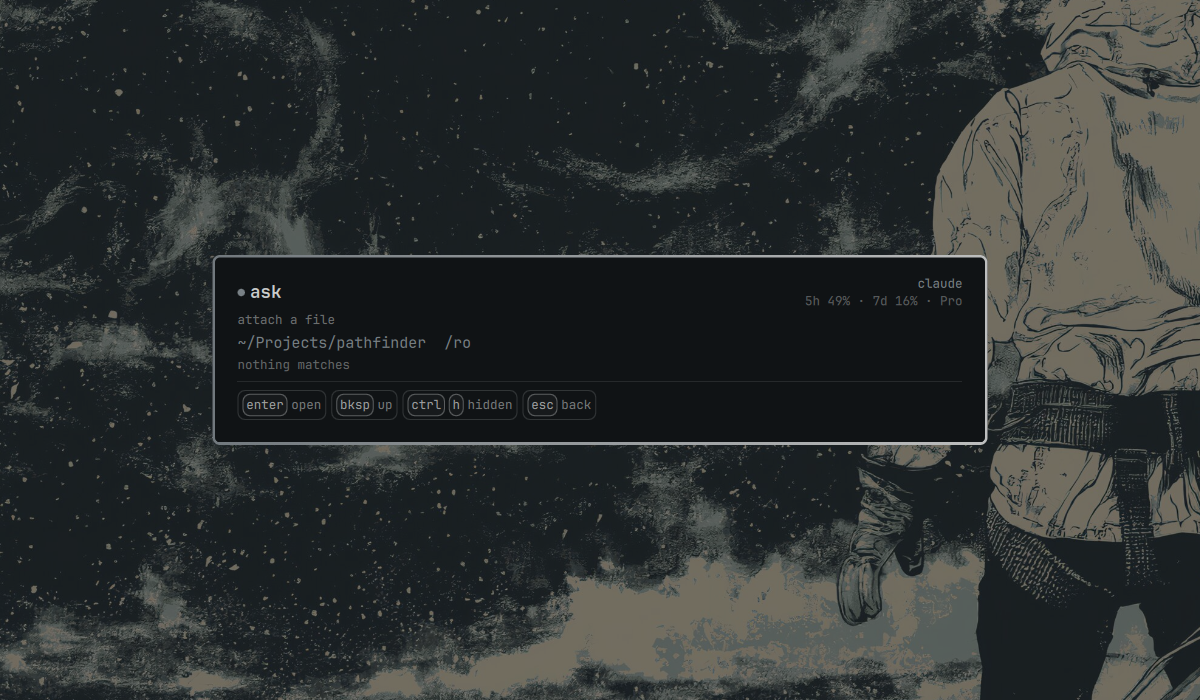
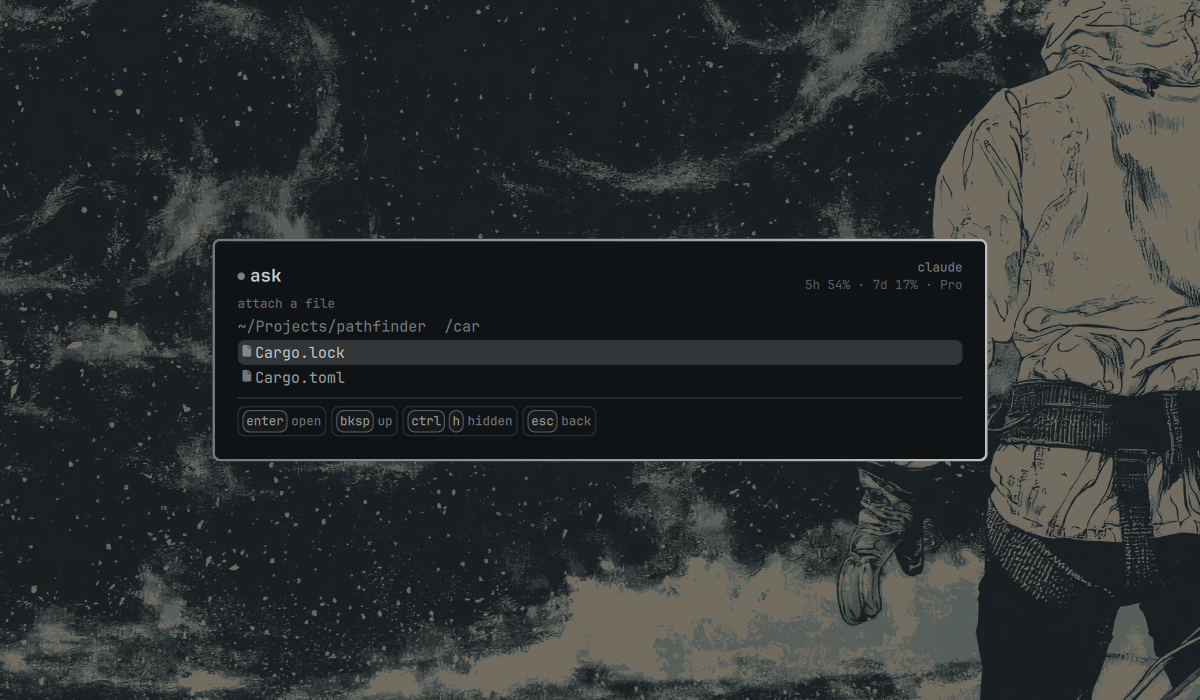
Capture the docs, and the scripts that made them
docs/ had a table of images marked "soon". It now holds them: the composer with
its context, a question answered in place, attachments becoming chips, the
agent switch walking through what is installed here, the file picker, the
history, the settings, and the card under three themes.

The scripts that produced them are in docs/capture/ rather than lost in a shell
history. They drive the real plugin on a real session -- summon it over the
shell's IPC with a context payload, type into it with wtype, photograph it with
grim -- and put back the workspace, theme, idle setting, agent list and history
they borrowed. A contributor who changes the UI can regenerate the affected
image with one command instead of trusting a screenshot they cannot reproduce.

Three things worth knowing, all stated in docs/README.md:

- The recordings drop frames identical to the one before them, which is mostly
  the wait before the first token. Nothing that moved is removed and nothing is
  reordered or sped up, but streaming.gif is not a latency benchmark.
- The context in the shots is handed to the overlay as the same JSON payload
  omarchy-ask builds from hyprctl -- the real code path with a fixed input, so
  the chips do not depend on which window happened to be focused.
- The region picker wants a mouse drag and there is no synthetic mouse here, so
  it is the one feature with no recording.

Two traps found while writing them, both commented where they bite:
[…]

Changed region(s): [[0.1542, 0.33, 0.8325, 0.66]]

diff --git a/README.md b/README.md
@@ -7,28 +7,10 @@ your default Omarchy agent — with the window you were looking at, the director
 you were in, and anything you chose to attach — and the answer streams back in
 place.
 
-```
-┌────────────────────────────────────────────────────────────┐
-│ ● ask                                       claude · opus-5│
-│                                        5h 83% · 7d 9% · Pro│
-│  ┌───────────────────────────────────────────────────────┐ │
-│  │ why is this build failing?                            │ │
-│  └───────────────────────────────────────────────────────┘ │
-│  [win] foot   [dir] ~/Projects/api   [img] region shot ×   │
-│ ────────────────────────────────────────────────────────── │
-│  why is this build failing?                        ┌──────┐│
-│                                                    │ copy ││
-│ ▎Your lockfile is out of sync with package.json.   └──────┘│
-│ ▎Run `bun install` to regenerate it — the CI image         │
-│ ▎pins bun 1.1, the lockfile was written by 1.2.▋           │
-│ ────────────────────────────────────────────────────────── │
-│ [enter] follow up  [shift][enter] terminal  [esc] close    │
-└────────────────────────────────────────────────────────────┘
-```
+![A question typed into the card, and the answer streaming back into it](docs/streaming.gif)
 
-> **Screenshots and short screen recordings — soon.** The card streams, pulses
-> and animates, so it deserves moving images rather than a still; they will land
-> in [`docs/`](docs/), one per feature.
+*Typed, sent, answered in place. Recorded on a stock Omarchy desktop; the pauses
+where nothing moves are collapsed, nothing else is.*
 
 ---
 
@@ -76,6 +58,8 @@ else falls back to a terminal, which is generic by construction — see
 
 ## What it does
 
+![The composer, carrying the window and directory it was opened from](docs/card.png)
+
 **It brings the context with it.** The class and title of the window you came
 from, and — for a terminal — the working directory, resolved from the shell
 running inside it. The agent starts *in* that directory, so "why is this
@@ -101,6 +85,8 @@ changes files belongs in the terminal, where approvals are in front of you.
 turn keeps running, the answer is recorded, and a notification brings you back
 to it. `ctrl+c` stops a run when that is what you actually mean.
 
+![Past turns, each with its agent and how long ago it was asked](docs/history.png)
+
 **It remembers.** `↑` recalls previous prompts, shell-style. `ctrl+h` opens
 every past turn — each carrying the agent's **session id**, so reopening one
 continues that conversation instead of re-asking it, and `shift+enter` resumes
@@ -108,6 +94,8 @@ it in a terminal through the agent's own `--resume`.
 
 **It says what it is doing.** Which model answered, how much of your rate limit
 is gone, and — folded away until you want it — the agent's reasoning.
+
+![The clipboard and a file becoming chips under the question](docs/attachments.gif)
 
 **It says things once.** The context block and the attachment paths go out on
 the first turn of a session and not again. A follow-up resumes that session, so
@@ -117,11 +105,21 @@ every single turn. Attach something new mid-conversation and only that is
 announced. The terminal path still sends everything, because `shift+enter`
 starts an agent that has been told nothing.
 
+![The agent name in the header changing as ctrl+shift+a cycles through them](docs/agents.gif)
+
 **It switches agents mid-thought.** `ctrl+shift+a` — or a click on the agent's
 name — moves to the next agent *installed on this machine*, asked of `mise` the
 same way Omarchy asks before offering to install one. No menu of agents you do
 not have. The choice is the plugin's own: `omarchy default agent` keeps whatever
 the rest of your desktop was told to use.
+
+![The same card under Solitude, Tokyo Night and Catppuccin Latte](docs/themes.png)
+
+Nothing in the card names a colour. It is built out of the shell's own `[menu]`
+surface tokens, which are file-watched — so setting an Omarchy theme restyles an
+open card, without restarting anything.
+
+![The file picker, narrowed by typing](docs/picker.png)
 
 ## Keys
 
@@ -163,6 +161,8 @@ and `parse(line)`. An unrecognised line returns `null` and is ignored — these
 formats gain event types over time, and an unknown line must never be fatal.
 
 ## Settings — `ctrl+,`
+
+![The settings screen, listing every switch the card has](docs/settings.png)
 
 Space changes the selected value; booleans flip, enums advance.
 

diff --git a/docs/README.md b/docs/README.md
@@ -1,19 +1,67 @@
 # docs
 
-**Soon.**
+Every image here is a real capture of the plugin running on a real Omarchy
+desktop. Nothing is mocked, and nothing is drawn by hand — which is why the
+scripts that produced them are in [`capture/`](capture/) rather than lost in a
+shell history.
 
-Screenshots and short screen recordings for the main README go here — one per
-feature, so each can be linked on its own.
-
-| File | Shows | Status |
+| File | Shows | Made by |
 |---|---|---|
-| `card.png` | the composer with context chips | soon |
-| `streaming.gif` | an answer arriving, activity dot and stream cursor | soon |
-| `attachments.gif` | `ctrl+r` region capture becoming a chip | soon |
-| `picker.png` | the file picker, filtered | soon |
-| `history.png` | past turns with session ids | soon |
-| `settings.png` | the settings screen | soon |
-| `themes.png` | the same card under three Omarchy themes | soon |
+| [`card.png`](card.png) | the composer with the context it picked up | [`capture/card.sh`](capture/card.sh) |
+| [`streaming.gif`](streaming.gif) | a question typed, sent, and answered in place | [`capture/streaming.sh`](capture/streaming.sh) |
+| [`attachments.gif`](attachments.gif) | the clipboard and a file becoming chips | [`capture/attachments.sh`](capture/attachments.sh) |
+| [`agents.gif`](agents.gif) | `ctrl+shift+a` walking through the installed agents | [`capture/agents.sh`](capture/agents.sh) |
+| [`picker.png`](picker.png) | the file picker, narrowed by typing | [`capture/picker.sh`](capture/picker.sh) |
+| [`history.png`](history.png) | past turns, with their agent and age | [`capture/history.sh`](capture/history.sh) |
+| [`settings.png`](settings.png) | the settings screen | [`capture/settings.sh`](capture/settings.sh) |
+| [`themes.png`](themes.png) | the same card under three Omarchy themes | [`capture/themes.sh`](capture/themes.sh) |
 
-Capture them on an empty workspace: the card is a layer-shell surface over a
-dimmed screen, so whatever sits behind it ends up in the shot.
+## Regenerating them
+
+```bash
+docs/capture/card.sh        # any one of them
+```
+
+Each script is standalone. It takes over the screen for as long as it runs — it
+types into the card with `wtype` — so do not use the machine while one is going.
+
+Beyond what Omarchy already ships (`grim`, `jq`, `hyprland`), they need `wtype`
+to type and `ffmpeg` + `imagemagick` to crop and assemble:
+
+```bash
+sudo pacman -S --needed wtype ffmpeg imagemagick
+```
+
+## What the scripts do to your session, and put back
+
+They stage an empty workspace and restore the one you were on. They keep the
+screen awake while recording and restore the idle setting. `themes.sh` changes
+the Omarchy theme and sets it back; `agents.sh` walks through your installed
+agents and puts `~/.config/omarchy/ask.json` back as it found it;
+`history.sh` swaps in a fixture history and restores the real one. A throwaway
+project is created at `~/Projects/pathfinder` and removed, unless one is
+already there — in which case yours is used and left alone.
+
+The card is a layer-shell surface over a dimmed screen, so whatever sits behind
+it lands in the shot. That is the reason for the empty workspace: on a working
+machine the background is your actual work.
+
+## Two things to be straight about
+
+**The recordings collapse their own dead air.** Frames identical to the one
+before them are dropped when the GIF is assembled, which mostly means the wait
+between sending a question and the first token. Nothing that moved is removed,
+and no frame is reordered or sped up. Model latency is real and depends on your
+setup — `streaming.gif` is not a benchmark.
+
+**The context in the shots is passed in, not captured.** The scripts hand the
+overlay the same JSON payload `omarchy-ask` builds from `hyprctl activewindow`,
+so the chips do not depend on which window happened to be focused when you ran
+the script. It is the real code path with a fixed input.
+
+## Not captured here
+
+The region picker (`ctrl+r`) freezes the screen and asks you to drag a
+rectangle. There is no synthetic mouse in this setup, so it is the one feature
+with no recording — the keyboard-driven attachments in `attachments.gif` go
+through exactly the same chip-and-path plumbing.
